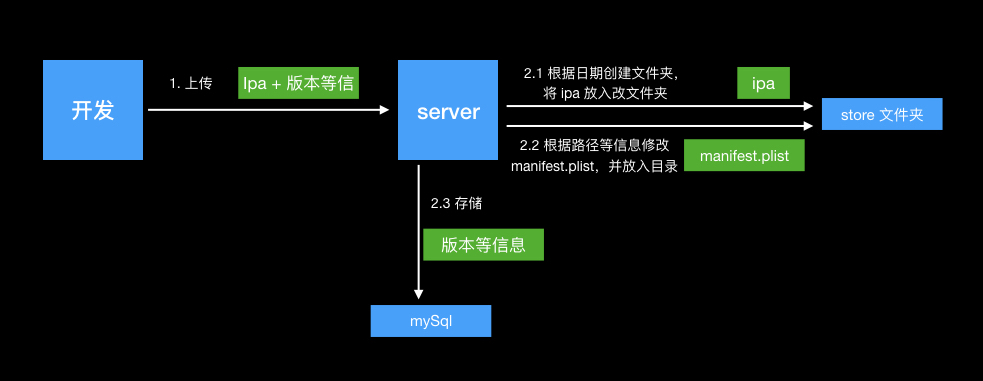
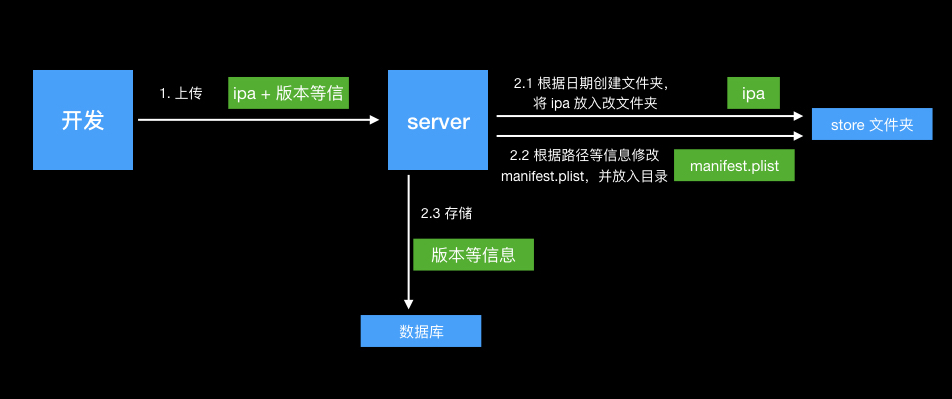
更换数据库为 splite3。删除没用的 node库。更新使用文档

Changed region(s): [[0.0305, 0.1444, 1.0, 0.895]]

diff --git a/sqlBusiness.js b/sqlBusiness.js
@@ -1,26 +1,43 @@
-var mysql  = require('mysql');
+var sqlite3 = require('sqlite3');
+var handFile = require('./handFile');
 
+
+let dbPath = './dataBase'
+// 创建 db 存储路径
+handFile.dirExists(dbPath);
 // sql 初始化
-var connection = mysql.createConnection({
-  user: 'root',
-  password: 'daybreak',
-  database: 'ipaInfo',
-  insecureAuth: true,
-  dateStrings: true,
+var db = new sqlite3.Database(dbPath + '/ipainfo.db',function(err) {
+  if(err){
+      console.log('[INSERT ERROR] - DB打开失败 : ' + err);
+      return;
+  }
+  let createTableSql = `
+    CREATE TABLE IF NOT EXISTS info (
+        id INTEGER PRIMARY KEY   AUTOINCREMENT,
+        name         TEXT  NOT NULL,
+        version      TEXT  NOT NULL,
+        buildVersion TEXT  NOT NULL,
+        description  TEXT  NOT NULL,
+        resourceURL  TEXT  NOT NULL,
+        date         TEXT  NOT NULL
+        )
+  `
+    db.run(createTableSql,function(err){
+        if(err){
+            console.log('[INSERT ERROR] - DB打开失败 : ' + err);
+        }
+    });
+  
 });
 
-connection.connect(function callback(err) {
-  if (err) {
-      return console.log('[INSERT ERROR] - ', err.message);
-  }
-});
+
 
 function readListOfIpaInfo(pageNum,pageSize,cb){
   console.log('数据库读取 处理开始 '+'pageNum:'+ pageNum +'pageSize:'+ pageSize);
   let beginIndex = (pageNum - 1) * pageSize;
-  var readSql = 'SELECT * from info order by id desc limit ' + beginIndex + ',' +pageSize;
+  var readSql = 'SELECT * from info order by id desc limit ' + beginIndex + ',' +pageSize;    
 
-  connection.query(readSql, function (err, result) {
+  db.all(readSql, function (err, result) {
     if(err){
       console.log('[SELECT ERROR] - ', err.message);
       cb(false);
@@ -34,13 +51,14 @@ function readListOfIpaInfo(pageNum,pageSize,cb){
   });
 
 }
+
 function saveIpaInfo(name, version, buildVersion, description, resourceURL, date, cb) {
   console.log('数据库存储 处理开始');
 
-  var addSql = 'INSERT INTO info(id,name,version,buildVersion,description,resourceURL,date) VALUES(0,?,?,?,?,?,?)';
+  var addSql = 'INSERT INTO info(name,version,buildVersion,description,resourceURL,date) VALUES(?,?,?,?,?,?)';
   var addSqlParams = [name, version, buildVersion, description, resourceURL, date];
   //增
-  connection.query(addSql, addSqlParams, function (err, result) {
+  db.run(addSql, addSqlParams, function (err) {
 
       if (err) {
           console.log('[INSERT ERROR] - ', err.message);
@@ -49,7 +67,7 @@ function saveIpaInfo(name, version, buildVersion, description, resourceURL, date
       }
 
       console.log('--------------------------INSERT----------------------------');
-      console.log('INSERT ID:', result);
+      console.log('INSERT SUCCESS');
       console.log('-----------------------------------------------------------------\n\n');
 
       cb(true)

diff --git a/handFile.js b/handFile.js
@@ -142,11 +142,7 @@ function handlePlist(destDir, ipaURL,title,version) {
 
     return plistDestPath;
 }
-module.exports = {
-    handleIPAInfo: handleIPAInfo,
-    handlePlist: handlePlist,
-    updatedInfoPlistUrl:updatedInfoPlistUrl,
-}
+
 /**
  * 在本机 IP 被修改后可以通过此接口进行 infoPlist 中域名的全部替换
  */
@@ -205,3 +201,11 @@ fs.writeFileSync(filePath, builder);
    ]
 }
     */
+
+   module.exports = {
+    handleIPAInfo: handleIPAInfo,
+    handlePlist: handlePlist,
+    updatedInfoPlistUrl:updatedInfoPlistUrl,
+
+    dirExists:dirExists,
+}

diff --git a/ipaList.html b/ipaList.html
@@ -4,7 +4,6 @@
   <meta charset="UTF-8" />
   <meta name="viewport" content="width=device-width, initial-scale=1.0" />
   <meta http-equiv="X-UA-Compatible" content="ie=edge" />
-  <!-- <script src="/dist/jquery.min.js"></script> -->
   <script src="https://cdn.jsdelivr.net/npm/vue@2.x/dist/vue.js"></script>
   <script src="https://cdn.staticfile.org/axios/0.18.0/axios.min.js"></script>
   <link href="https://cdn.jsdelivr.net/npm/vuetify@2.x/dist/vuetify.min.css" rel="stylesheet">

diff --git a/servers.js b/servers.js
@@ -52,7 +52,6 @@ function getIPAdress() {
 // express
 app.use(express.static(__dirname + '/source/certificate'));
 app.use('/store',express.static(__dirname + '/store'));
-app.use(express.static(__dirname + '/node_modules/jquery'));
 
 
 let options = {

diff --git a/README.md b/README.md
@@ -37,7 +37,7 @@
 1. `manifest.plist`：这是用来告诉设备从哪里下载 ipa，以及 ipa 的部分信息的文件。[存储位置 ` ./source/plist/manifest.plist`](./source/plist/manifest.plist)。
 2. `证书`：因为苹果的要求下载必须使用 https，所以需要根据【服务器】的 ip 生成对应的 CA 证书（PS：本项目生成的是 CA 根证书）。
 3. `服务`：使用的 nodeJS。用来处理上传的 ipa 的信息记录和存储规划；对应的列表用来展示下载；证书的下发。
-4. `mySql`：用来存储、读取 ipa 的相关信息。
+4. `数据库`：用来存储、读取 ipa 的相关信息。
 
 ## 流程图
 
